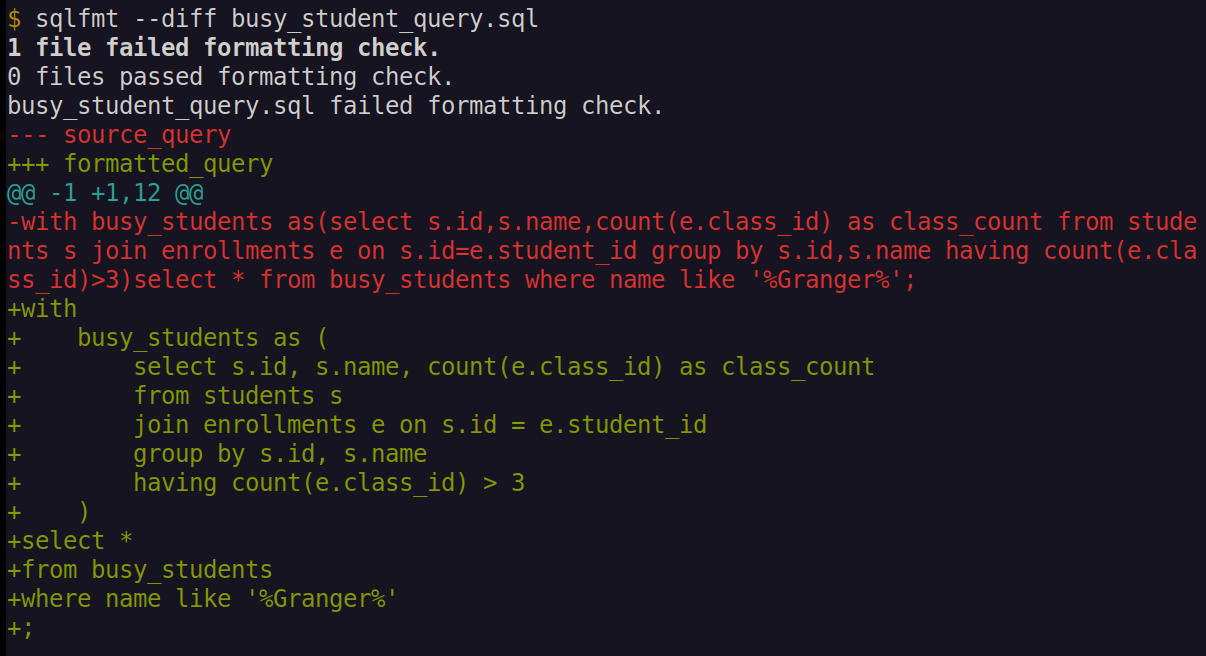
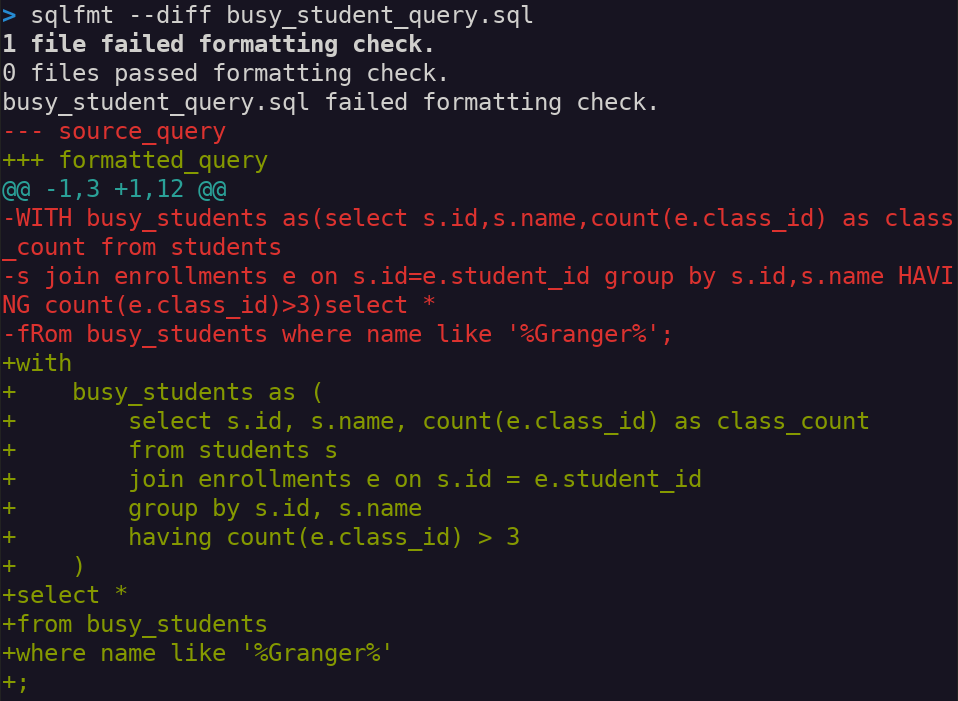
Edit blog 22

Changed region(s): [[0.0, 0.0, 0.999, 1.0]]

diff --git a/theme/static/css/main.css b/theme/static/css/main.css
@@ -1189,6 +1189,10 @@ article .highlight-cell {
     max-width: 28rem;
   }
 
+  .sm\:max-w-xl {
+    max-width: 36rem;
+  }
+
   .sm\:space-x-4 > :not([hidden]) ~ :not([hidden]) {
     --tw-space-x-reverse: 0;
     margin-right: calc(1rem * var(--tw-space-x-reverse));
@@ -1217,16 +1221,16 @@ article .highlight-cell {
     max-width: 42rem;
   }
 
+  .md\:max-w-3xl {
+    max-width: 48rem;
+  }
+
   .md\:max-w-sm {
     max-width: 24rem;
   }
 
   .md\:max-w-xl {
     max-width: 36rem;
-  }
-
-  .md\:max-w-3xl {
-    max-width: 48rem;
   }
 
   .md\:flex-1 {

diff --git a/content/posts/022_FormatSqlCodeForDbt.md b/content/posts/022_FormatSqlCodeForDbt.md
@@ -10,16 +10,19 @@ Want to have a bad day?
 Read this SQL Snippet:
 
 ```sql
-SeLeCt S.FIRST_NAME, s.last_name, s.year, h.house_NAME, COUNT(e.class_id) as class_Count, max(e.enrolled_at) AS LAST_ENROLLMENT_DATE FrOm student as S JoIn house as h ON S.house_id = h.id leFT join enrollment as e ON s.id=e.student_id where s.year > 4 and (h.house_NAME = 'Gryffindor' or h.house_NAME = 'Ravenclaw') and e.is_active = TRUE GROUP by s.name,h.house_name having count(e.class_id)>2;
+SeLeCt S.FIRST_NAME, s.last_name, s.year, h.house_NAME, COUNT(e.class_id) as class_Count, max(e.enrolled_at) 
+AS LAST_ENROLLMENT_DATE FrOm student as S JoIn house as h ON S.house_id = h.id leFT join 
+enrollment as e ON s.id=e.student_id where s.year > 4 and (h.house_NAME = 'Gryffindor' or h.house_NAME = 'Ravenclaw') and 
+e.is_active = TRUE GROUP by s.name,h.house_name having count(e.class_id)>2;
 ```
 
-Yay.
+Yay. 😑
 
 What's this query even saying?
 
 You study the code to decipher the logic. Your eyes tear up under the strain.
 
-You start editing the code to be more readable... manually.
+You edit the code to be more readable... manually.
 
 "There's got to be a better way to do this," you groan.
 
@@ -54,17 +57,17 @@ having count(e.class_id) > 2
 ;
 ```
 
-Ah... that's better. :)
+Ah... that's better. ☺
 
 ## What is it?
 
-`sqlfmt` is a developer tool to auto-format SQL code. It's specifically designed for dbt.
+`sqlfmt` is a developer tool to auto-format SQL code. It's designed for dbt-style queries.
 
-`sqlfmt` aspires to end debates within developer teams. No more fighting over lower case vs uppercase, leading commas vs trailing commas. No more nit-picking about indentation. That's right, there is no custom configuration allowed. (Well, there is ONE thing you change: the line length. Default is 88 characters per line if you're curious.)
+`sqlfmt` aspires to end debates within developer teams. No more fighting over "lower case versus uppercase" or "leading commas versus trailing commas." No more nit-picking about indentation.
 
-It's like the `black` formatter for Python code. There's only one way to format the SQL.
+It's like the `black` formatter for Python. There's only ONE way to format the SQL. That's right, there is no custom configuration allowed. (Well, there is one thing you can change: the line length. Default is 88 characters per line if you're curious.)
 
-Auto-formatters handle the boring work of how your code is organized while you focus on the actual logic. :D
+Auto-formatters handle the boring work of how your code is organized while you focus on the actual logic. 😁
 
 ## How Do I Get It?
 
@@ -76,14 +79,11 @@ uv tool install "shandy-sqlfmt[jinjafmt]"
 
 If all goes well, the `sqlfmt` command should be available from the command line:
 
-```bash
-$ sqlfmt --version
-sqlfmt, version 0.29.0
-```
+<img alt="sqlfmt version test" src="/static/images/post022/sqlfmt_version.png" class="w-full md:w-auto md:max-w-3xl mx-auto rounded-lg">
 
 ## How Do I Use It?
 
-The simplest way is to run `sqlfmt` from the command line. Without any arguments, it will format any SQL file it recursively finds in the current folder. Or you can pass a specific files to format.
+The simplest way is to run `sqlfmt` from the command line. Without any arguments, it will format any SQL file it finds in the current folder recursively. Or you can pass specific files to format.
 
 But be warned! Running `sqlfmt` without any flags will change and save your files. It's best to use git to version control the files before using `sqlfmt` for the first time.
  
@@ -91,61 +91,40 @@ Let's see what else `sqlfmt` can do with this sample SQL file:
 
 ```sql
 -- busy_student_query.sql
-with busy_students as(select s.id,s.name,count(e.class_id) as class_count from students s join enrollments e on s.id=e.student_id group by s.id,s.name having count(e.class_id)>3)select * from busy_students where name like '%Granger%';
+WITH busy_students as(select s.id,s.name,count(e.class_id) as class_count from students 
+s join enrollments e on s.id=e.student_id group by s.id,s.name HAVING count(e.class_id)>3)select * 
+fRom busy_students where name like '%Granger%';
 ```
 
 First, check if the query complies with `sqlfmt` standards using the `--check` flag. (Obviously it does not).
 
-```bash
-$ sqlfmt --check busy_student_query.sql
-1 file failed formatting check.
-0 files passed formatting check.
-busy_student_query.sql failed formatting check.
-```
+
+<img alt="sqlfmt --check" src="/static/images/post022/sqlfmt_check.png" class="w-full sm:w-auto sm:max-w-xl mx-auto rounded-lg">
 
 Here we can see the file failed the formatting check.
 
 Next, see what changes `sqlfmt` would make if it auto-formatted the file with the `--diff` flag.
 
-
-![sqlfmt with --diff flag](/static/images/post022/sqlfmt_diff.png)
-
-```bash
-$ sqlfmt --diff busy_student_query.sql
-1 file failed formatting check.
-0 files passed formatting check.
-busy_student_query.sql failed formatting check.
---- source_query
-+++ formatted_query
-@@ -1 +1,12 @@
--with busy_students as(select s.id,s.name,count(e.class_id) as class_count from students s join enrollments e on s.id=e.student_id group by s.id,s.name having count(e.class_id)>3)select * from busy_students where name like '%Granger%';
-+with
-+    busy_students as (
-+        select s.id, s.name, count(e.class_id) as class_count
-+        from students s
-+        join enrollments e on s.id = e.student_id
-+        group by s.id, s.name
-+        having count(e.class_id) > 3
-+    )
-+select *
-+from busy_students
-+where name like '%Granger%'
-+;
-```
-
-[ FIGURE OUT HOW TO ADD COLOR TO CODE SNIPPET ]
+<img alt="sqlfmt --diff" src="/static/images/post022/sqlfmt_diff.png" class="w-full md:w-auto md:max-w-3xl mx-auto rounded-lg">
 
 The output shows a git-like difference between the current lines (prefixed with "-") and the potential cleansed lines (prefixed with "+"). Again, run `sqlfmt busy_student_query.sql` with out the `--diff` flag to actually apply the formatting change.
 
 Remember sqlfmt is designed for dbt, so it handles Jinja tags incredibly well. Here's a query using Jinja to handle `config`, `ref`, and `source` tags:
 
 ```jinja
-{{config(materialized='table',tags=['hogwarts','students'],schema='analytics')}}with student_base as(select id,first_name,last_name,house_id,year,gpa from {{ref('student')}}),house_lookup as(select id,house_name,founder_name from {{source('core','house')}}),enrollments as(select student_id,class_id,is_active,enrolled_at from {{ref('enrollment')}}),aggregated as(select s.id,s.first_name,s.last_name,h.house_name,count(e.class_id) as class_count,max(e.enrolled_at) as last_enrolled_at from student_base s left join enrollments e on s.id=e.student_id join house_lookup h on s.house_id=h.id group by s.id,s.first_name,s.last_name,h.house_name)select id,first_name,last_name,house_name,class_count,last_enrolled_at from aggregated order by class_count desc;
+-- dbt_query.sql before formatting
+{{config(materialized='table',tags=['hogwarts','students'],
+schema='analytics')}}with student_base as(select id,first_name,last_name from 
+{{ref('student')}}),house_lookup as(select id,house_name from {{source('core','house')}}),
+enrollments as(select student_id,class_id,enrolled_at from {{ref('enrollment')}}),aggregated as
+(SELECT s.id,s.first_name,s.last_name,h.house_name,count(e.class_id) as class_count,max(e.enrolled_at
+) as last_enrolled_at from student_base s left join enrollments e on s.id=e.student_id join house_lookup 
+h on s.house_id=h.id group by s.id,s.first_name,s.last_name,h.house_name)select id,first_name,last_name
+,house_name,class_count,last_enrolled_at from aggregated order by class_count desc
 ```
 
-```bash
-sqlfmt dbt_query.sql
-```
+
+<img alt="sqlfmt with dbt query" src="/static/images/post022/sqlfmt_dbt.png" class="w-full md:w-auto md:max-w-xl mx-auto rounded-lg">
 
 ```jinja
 -- dbt_query.sql after formatting
@@ -176,7 +155,7 @@ order by class_count desc
 
 Delicious! 
 
-There is a caveat. As sqlfmt is designed primarily for dbt workflows, it cannot format all kinds of SQL commands. It's designed to format `select` statements that are prevalent in dbt projects. It's not as effective on DDL statements like `create table` or other DML statements like `insert`. `sqlfmt` will try its best to format these other SQL statements but makes no guarantees.
+There is a caveat. As `sqlfmt` is designed primarily for dbt workflows, it cannot format all kinds of SQL commands. It's designed to format `select` statements that are prevalent in dbt projects. It's not as effective on DDL statements like `create table` or other DML statements like `insert`. `sqlfmt` will try its best to format these other SQL statements but makes no guarantees.
 
 ## How Do I Automate It?
 
